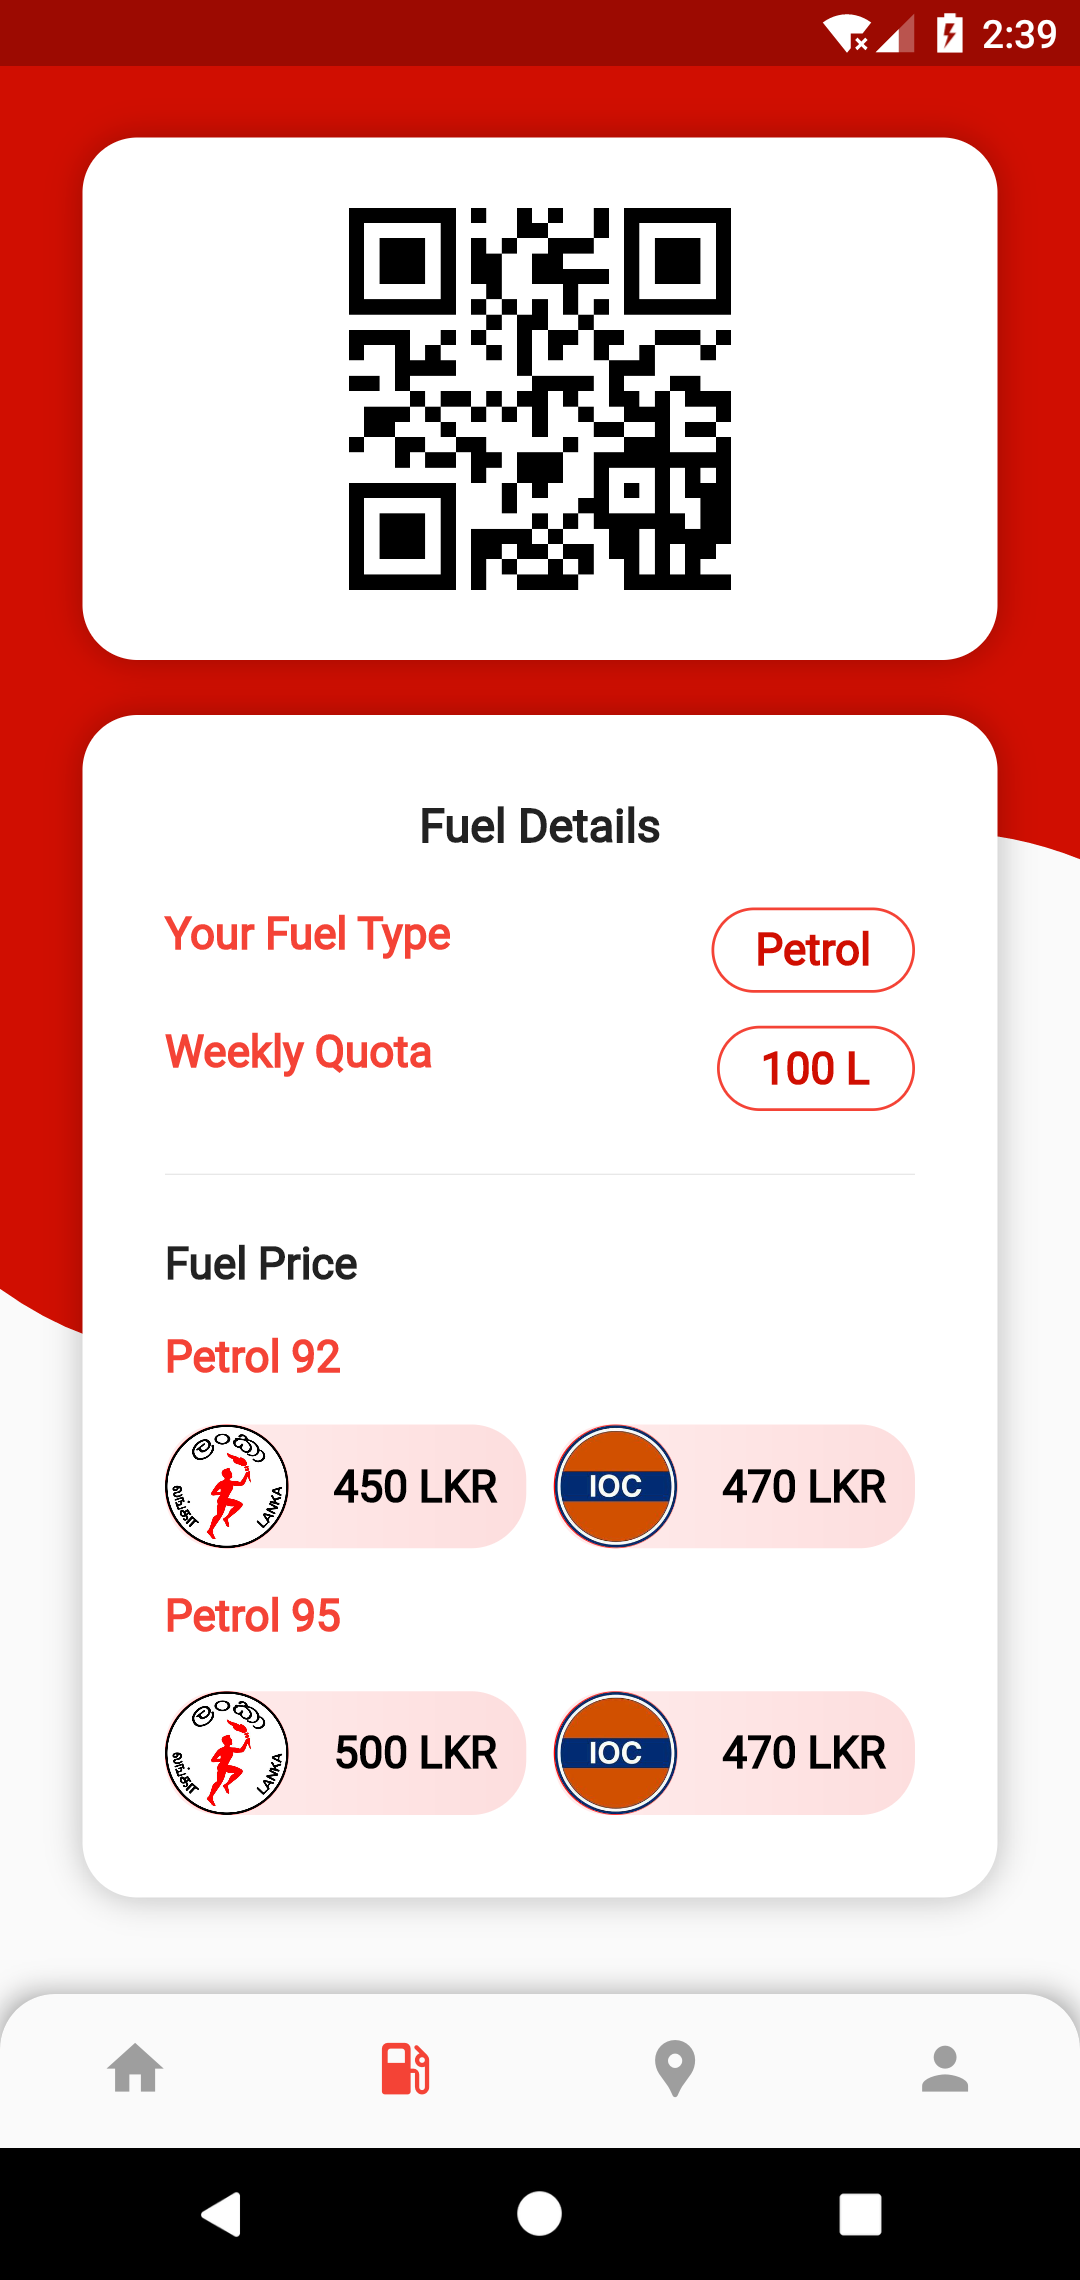
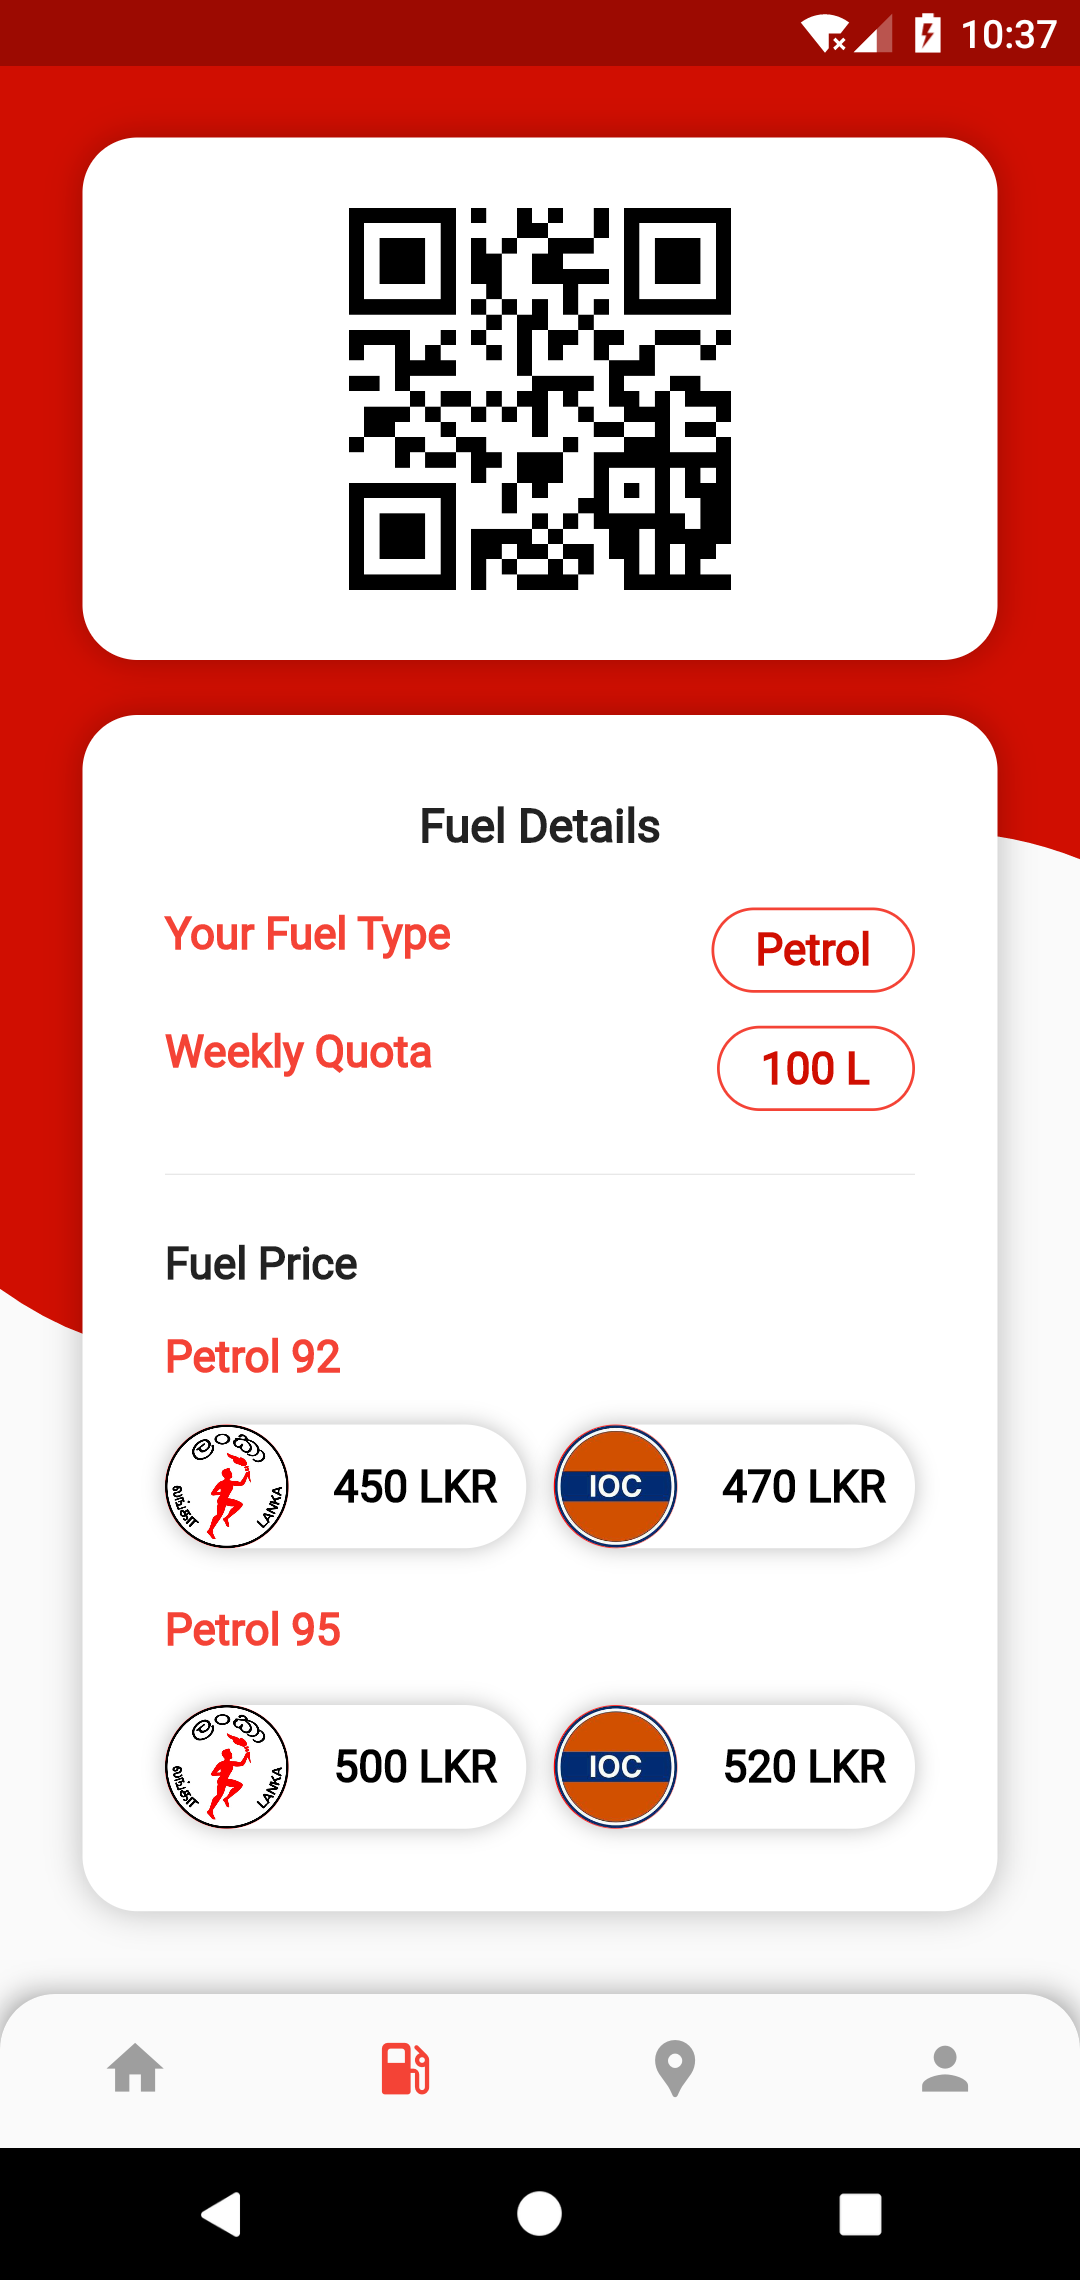
images updated

diff --git a/lib/screens/fuel_details.dart b/lib/screens/fuel_details.dart
@@ -218,9 +218,16 @@ class FuelDetails extends StatelessWidget {
                                   flex: 5,
                                   child: Container(
                                     decoration: const BoxDecoration(
-                                      gradient: linearGradient_2,
-                                      borderRadius:
-                                          BorderRadius.all(Radius.circular(20)),
+                                      borderRadius: BorderRadius.all(
+                                        Radius.circular(200),
+                                      ),
+                                      color: Colors.white,
+                                      boxShadow: <BoxShadow>[
+                                        BoxShadow(
+                                          color: Color.fromARGB(66, 0, 0, 0),
+                                          blurRadius: 6,
+                                        ),
+                                      ],
                                     ),
                                     child: const FuelPrice(
                                       path: 'assets/images/cpt-logo.png',
@@ -235,9 +242,16 @@ class FuelDetails extends StatelessWidget {
                                   flex: 5,
                                   child: Container(
                                     decoration: const BoxDecoration(
-                                      gradient: linearGradient_2,
-                                      borderRadius:
-                                          BorderRadius.all(Radius.circular(20)),
+                                      borderRadius: BorderRadius.all(
+                                        Radius.circular(200),
+                                      ),
+                                      color: Colors.white,
+                                      boxShadow: <BoxShadow>[
+                                        BoxShadow(
+                                          color: Color.fromARGB(66, 0, 0, 0),
+                                          blurRadius: 6,
+                                        ),
+                                      ],
                                     ),
                                     child: const FuelPrice(
                                       path: 'assets/images/ioc-logo.png',
@@ -247,7 +261,7 @@ class FuelDetails extends StatelessWidget {
                                 ),
                               ],
                             ),
-                            const SizedBox(height: 15),
+                            const SizedBox(height: 20),
                             Row(
                               children: const [
                                 Text(
@@ -268,9 +282,16 @@ class FuelDetails extends StatelessWidget {
                                   flex: 5,
                                   child: Container(
                                     decoration: const BoxDecoration(
-                                      gradient: linearGradient_2,
-                                      borderRadius:
-                                          BorderRadius.all(Radius.circular(20)),
+                                      borderRadius: BorderRadius.all(
+                                        Radius.circular(200),
+                                      ),
+                                      color: Colors.white,
+                                      boxShadow: <BoxShadow>[
+                                        BoxShadow(
+                                          color: Color.fromARGB(66, 0, 0, 0),
+                                          blurRadius: 6,
+                                        ),
+                                      ],
                                     ),
                                     child: const FuelPrice(
                                       path: 'assets/images/cpt-logo.png',
@@ -285,13 +306,20 @@ class FuelDetails extends StatelessWidget {
                                   flex: 5,
                                   child: Container(
                                     decoration: const BoxDecoration(
-                                      gradient: linearGradient_2,
-                                      borderRadius:
-                                          BorderRadius.all(Radius.circular(20)),
+                                      borderRadius: BorderRadius.all(
+                                        Radius.circular(200),
+                                      ),
+                                      color: Colors.white,
+                                      boxShadow: <BoxShadow>[
+                                        BoxShadow(
+                                          color: Color.fromARGB(66, 0, 0, 0),
+                                          blurRadius: 6,
+                                        ),
+                                      ],
                                     ),
                                     child: const FuelPrice(
                                       path: 'assets/images/ioc-logo.png',
-                                      price: '470 LKR',
+                                      price: '520 LKR',
                                     ),
                                   ),
                                 ),
